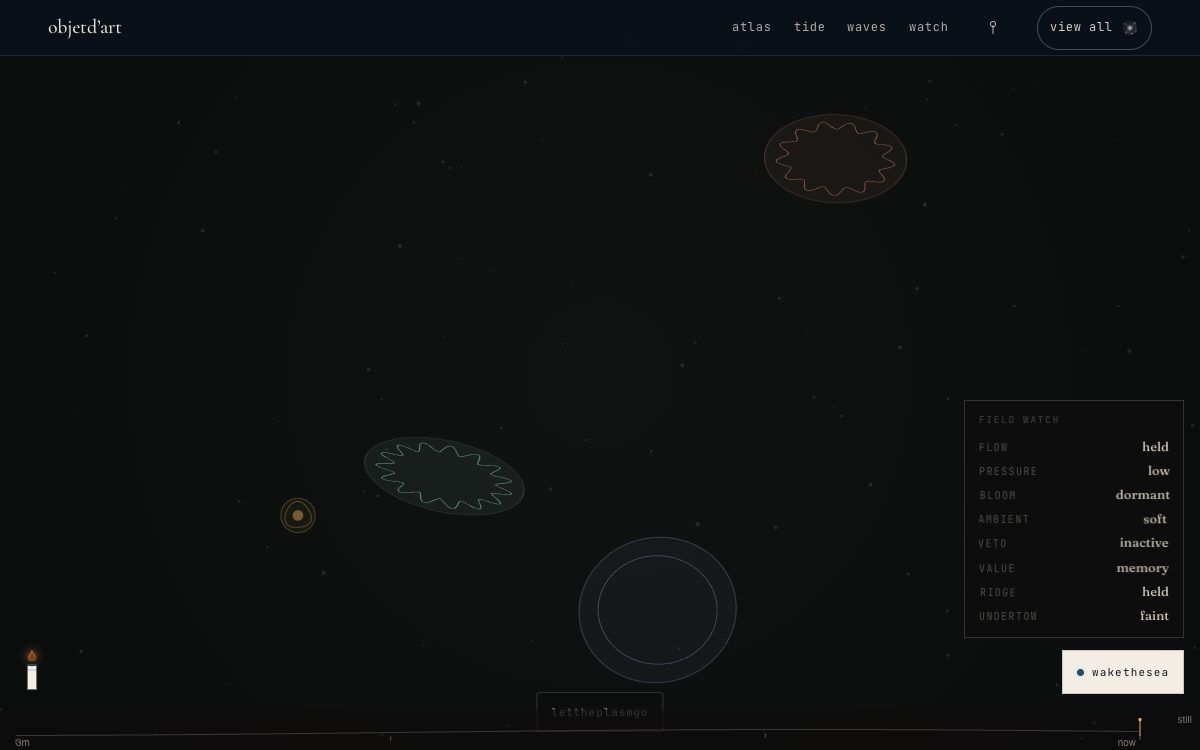
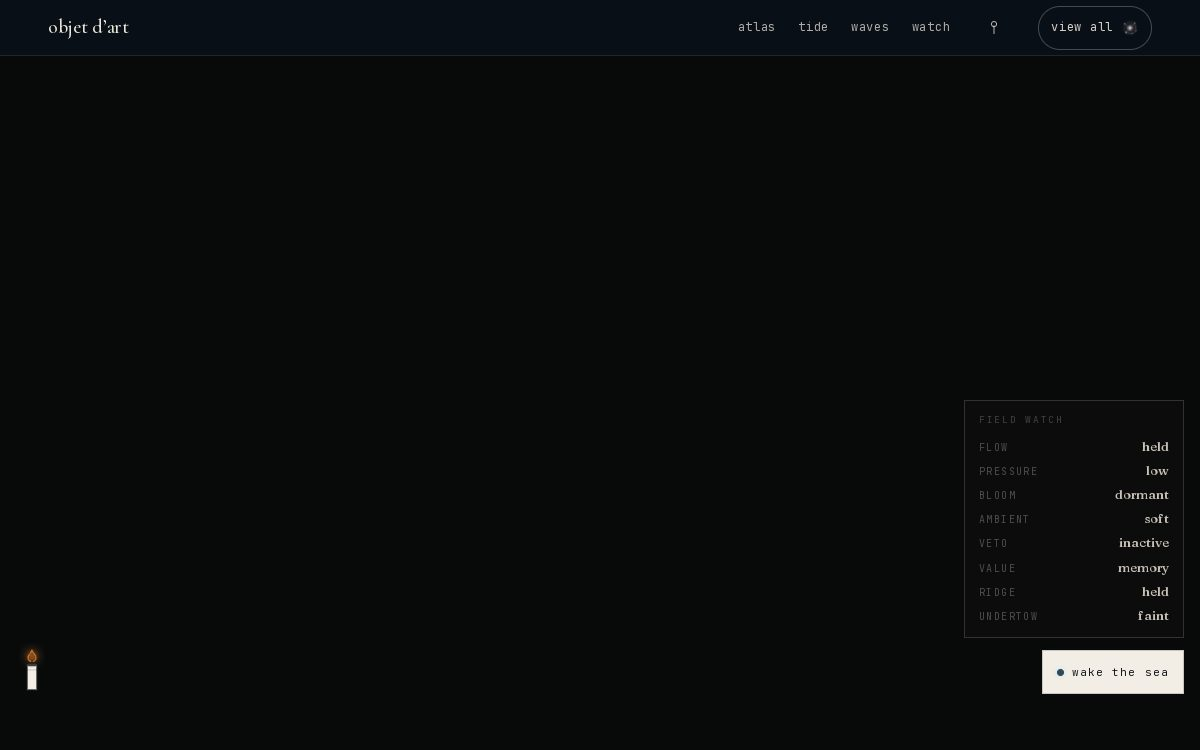
feat(organelles): membrane ghost grows as the set fills (#240)
* feat(organelles): grow membrane ghost as set fills

* feat(organelles): refresh membrane guide shot

---------

diff --git a/src/components/OrganellesPlasm.tsx b/src/components/OrganellesPlasm.tsx
@@ -20,14 +20,15 @@
  * timbre. Hold one and the budget flows into it while you hold — the others
  * pay, in the same frame. Circle a finger on one to wind its folds deeper,
  * the other way to let them out. Dwell on open plasm and the organ the cell
- * is still missing condenses there; gather all six and the cell membrane
- * closes around them of its own accord — when the ring settles the plasm
- * becomes the cell above (the handoff up). Hold the nucleus to the ceremony
- * and it opens onto the helix within — the door down. Twist raises the lens
- * to the ledger, where the budget is drawn as shares of one constant total.
- * Three fingers hold the world-law: drag is the streaming rate, hold dilates
- * the clock, tap is the tutti. Tilt pours the plasm; a shake churns it; a
- * knock rings the nearest organ.
+ * is still missing condenses there; the ghost membrane grows with the set,
+ * and its well gathers organs toward the forming cell. Gather all six and
+ * the cell membrane settles closed — then the plasm becomes the cell above
+ * (the handoff up). Hold the nucleus to the ceremony and it opens onto the
+ * helix within — the door down. Twist raises the lens to the ledger, where
+ * the budget is drawn as shares of one constant total. Three fingers hold
+ * the world-law: drag is the streaming rate, hold dilates the clock, tap is
+ * the tutti. Tilt pours the plasm; a shake churns it; a knock rings the
+ * nearest organ.
  *
  * Persists in `objetdart:organelles:v1` with the quiet clear at the bottom.
  * Pinch is unbound — ScaleTravel owns it (cells above, dna below).
@@ -46,10 +47,12 @@ import {
   MAX_ORGANELLES,
   MEMBRANE_KINDS,
   brightness,
+  cellWellPull,
   foldedness,
   harmonicsFor,
   hasFullSet,
   hashSeed,
+  membraneCompleteness,
   membranePoint,
   missingKinds,
   mulberry32,
@@ -197,7 +200,7 @@ export default function OrganellesPlasm() {
       );
     }
     closed = hasFullSet(listRef.current);
-    closing = closed ? 1 : 0;
+    closing = membraneCompleteness(listRef.current);
     setHasKept(listRef.current.length > 0);
 
     const save = () => {
@@ -490,11 +493,17 @@ export default function OrganellesPlasm() {
             return;
           }
           if (dragIdx >= 0 && dragIdx < listRef.current.length) {
-            const o = listRef.current[dragIdx];
+            const nx0 = clamp(x / width, 0.06, 0.94);
+            const ny0 = clamp(y / height, 0.08, 0.92);
+            const minDim = Math.max(1, Math.min(width, height));
+            const aspectX = width / minDim;
+            const aspectY = height / minDim;
+            const pull = cellWellPull(nx0, ny0, membraneCompleteness(listRef.current), aspectX, aspectY);
+            const nx = clamp(nx0 + pull.x * pull.strength * 0.018, 0.06, 0.94);
+            const ny = clamp(ny0 + pull.y * pull.strength * 0.018, 0.08, 0.92);
             listRef.current = listRef.current.map((q, k) =>
-              k === dragIdx ? { ...q, nx: clamp(x / width, 0.06, 0.94), ny: clamp(y / height, 0.08, 0.92) } : q,
+              k === dragIdx ? { ...q, nx, ny } : q,
             );
-            void o;
             // the flow drags back: a wake through the plasm
             churn = Math.min(1, churn + Math.abs(e.dx + e.dy) * 0.0016);
             return;
@@ -663,6 +672,7 @@ export default function OrganellesPlasm() {
 
       // the cell membrane closes around a full set, of its own accord —
       // and when that ring settles, the plasm becomes the cell above
+      const completeness = membraneCompleteness(list);
       const full = hasFullSet(list);
       if (full && !closed) {
         closed = true;
@@ -678,18 +688,24 @@ export default function OrganellesPlasm() {
         closed = false;
         earnedClose = false;
       }
-      closing += ((closed ? 1 : 0) - closing) * Math.min(1, dt * 1.4);
+      closing += ((closed ? 1 : completeness) - closing) * Math.min(1, dt * 1.4);
       if (leaveGlow > 0) leaveGlow = Math.max(0, leaveGlow - dt * 2.2);
       if (earnedClose && closing > 0.98 && !leaving) intoTheCell();
 
       // the plasm streams and carries its organs with it
       if (!reduced) {
+        const minDim = Math.max(1, Math.min(width, height));
+        const aspectX = width / minDim;
+        const aspectY = height / minDim;
         for (let i = 0; i < list.length; i++) {
           if (i === dragIdx) continue;
           const o = list[i];
           const flow = streaming * 0.02;
           const swirl = Math.sin(localT * 0.3 + o.nx * 6) * flow + pour * 0.03;
           const drift = Math.cos(localT * 0.24 + o.ny * 5) * flow;
+          const pull = cellWellPull(o.nx, o.ny, completeness, aspectX, aspectY);
+          vel[i * 2] += pull.x * pull.strength * 0.1 * dt;
+          vel[i * 2 + 1] += pull.y * pull.strength * 0.1 * dt;
           let nx = o.nx + (vel[i * 2] + swirl) * dt;
           let ny = o.ny + (vel[i * 2 + 1] + drift) * dt;
           vel[i * 2] *= Math.exp(-dt * 1.2);
@@ -740,14 +756,17 @@ export default function OrganellesPlasm() {
         }
       }
 
-      // the cell membrane, closing — and brightening as the handoff lands
+      // the cell membrane ghost: one sixth of the ring for each kind present,
+      // then the last sixth settles before the handoff up.
       if (closing > 0.01) {
         const r = Math.min(width, height) * 0.44;
-        ctx.strokeStyle = `rgba(170, 214, 190, ${0.1 + closing * 0.28 + leaveGlow * 0.5})`;
-        ctx.lineWidth = 1 + closing * 1.6 + leaveGlow * 1.4;
+        ctx.strokeStyle = `rgba(170, 214, 190, ${0.04 + closing * 0.3 + leaveGlow * 0.5})`;
+        ctx.lineWidth = 0.7 + closing * 1.7 + leaveGlow * 1.4;
+        ctx.lineCap = "round";
         ctx.beginPath();
         ctx.arc(width / 2, height / 2, r * (0.92 + breath * 0.02), -Math.PI / 2, -Math.PI / 2 + closing * Math.PI * 2);
         ctx.stroke();
+        ctx.lineCap = "butt";
       }
 
       // the organelles

diff --git a/src/lib/membrane.ts b/src/lib/membrane.ts
@@ -248,6 +248,56 @@ export function hasFullSet(list: Organelle[]): boolean {
   return missingKinds(list).length === 0;
 }
 
+/** How much of the cell's organ set is present; duplicates never fake a body. */
+export function membraneCompleteness(list: Pick<Organelle, "kind">[]): number {
+  const have = new Set<MembraneKind>();
+  for (const o of list) {
+    if (MEMBRANE_KINDS.includes(o.kind)) have.add(o.kind);
+  }
+  return have.size / MEMBRANE_KINDS.length;
+}
+
+export const CELL_GHOST_RADIUS = 0.44;
+export const CELL_GHOST_GATHER_BAND = 0.16;
+
+export type CellWellPull = {
+  /** unit vector in normalized room coordinates, pointing into the well */
+  x: number;
+  y: number;
+  /** 0..1, scaled by how complete the membrane ghost already is */
+  strength: number;
+};
+
+/**
+ * The forming cell is a well: an organelle near the center, or brushing the
+ * ghost membrane, feels a soft centripetal draw. Coordinates are normalized;
+ * aspect scales distance so the circular ring stays circular on wide screens.
+ */
+export function cellWellPull(
+  nx: number,
+  ny: number,
+  completeness = 1,
+  aspectX = 1,
+  aspectY = 1,
+): CellWellPull {
+  const vx = 0.5 - nx;
+  const vy = 0.5 - ny;
+  const rawDistance = Math.hypot(vx, vy);
+  if (rawDistance < 1e-6) return { x: 0, y: 0, strength: 0 };
+
+  const scaledDistance = Math.hypot((nx - 0.5) * aspectX, (ny - 0.5) * aspectY);
+  const insideWell = Math.max(0, 1 - scaledDistance / CELL_GHOST_RADIUS);
+  const nearMembrane = Math.max(0, 1 - Math.abs(scaledDistance - CELL_GHOST_RADIUS) / CELL_GHOST_GATHER_BAND);
+  const field = Math.max(insideWell * 0.7, nearMembrane);
+  const ready = Math.max(0, Math.min(1, completeness));
+
+  return {
+    x: vx / rawDistance,
+    y: vy / rawDistance,
+    strength: Math.max(0, Math.min(1, field * (0.25 + ready * 0.75))),
+  };
+}
+
 // ——— determinism ————————————————————————————————————————————
 
 const KIND_SHAPE: Record<MembraneKind, { folds: [number, number]; amp: [number, number]; radius: [number, number] }> = {

diff --git a/src/data/guide.ts b/src/data/guide.ts
@@ -503,6 +503,7 @@ const CORE_GUIDE_ROOMS: GuideRoom[] = [
       "hold an organelle → the membrane budget flows into it while you hold, and the rest of the plasm pays in the same frame",
       "circle a finger on an organelle → winds its folds deeper; the other way lets them out",
       "drag an organelle → it moves through the flow, and the flow drags back",
+      "drag an organelle near the ghost membrane → the growing ring pulls it gently inward, gathering the cell by hand",
       "hold on open plasm (dwell) → the organ the cell is still missing condenses there",
       "hold the nucleus to the ceremony → it opens onto the helix within",
       "three fingers drag → the streaming rate; three fingers hold → the clock slows to a quarter; three fingers tap → every organ rings in size order",
